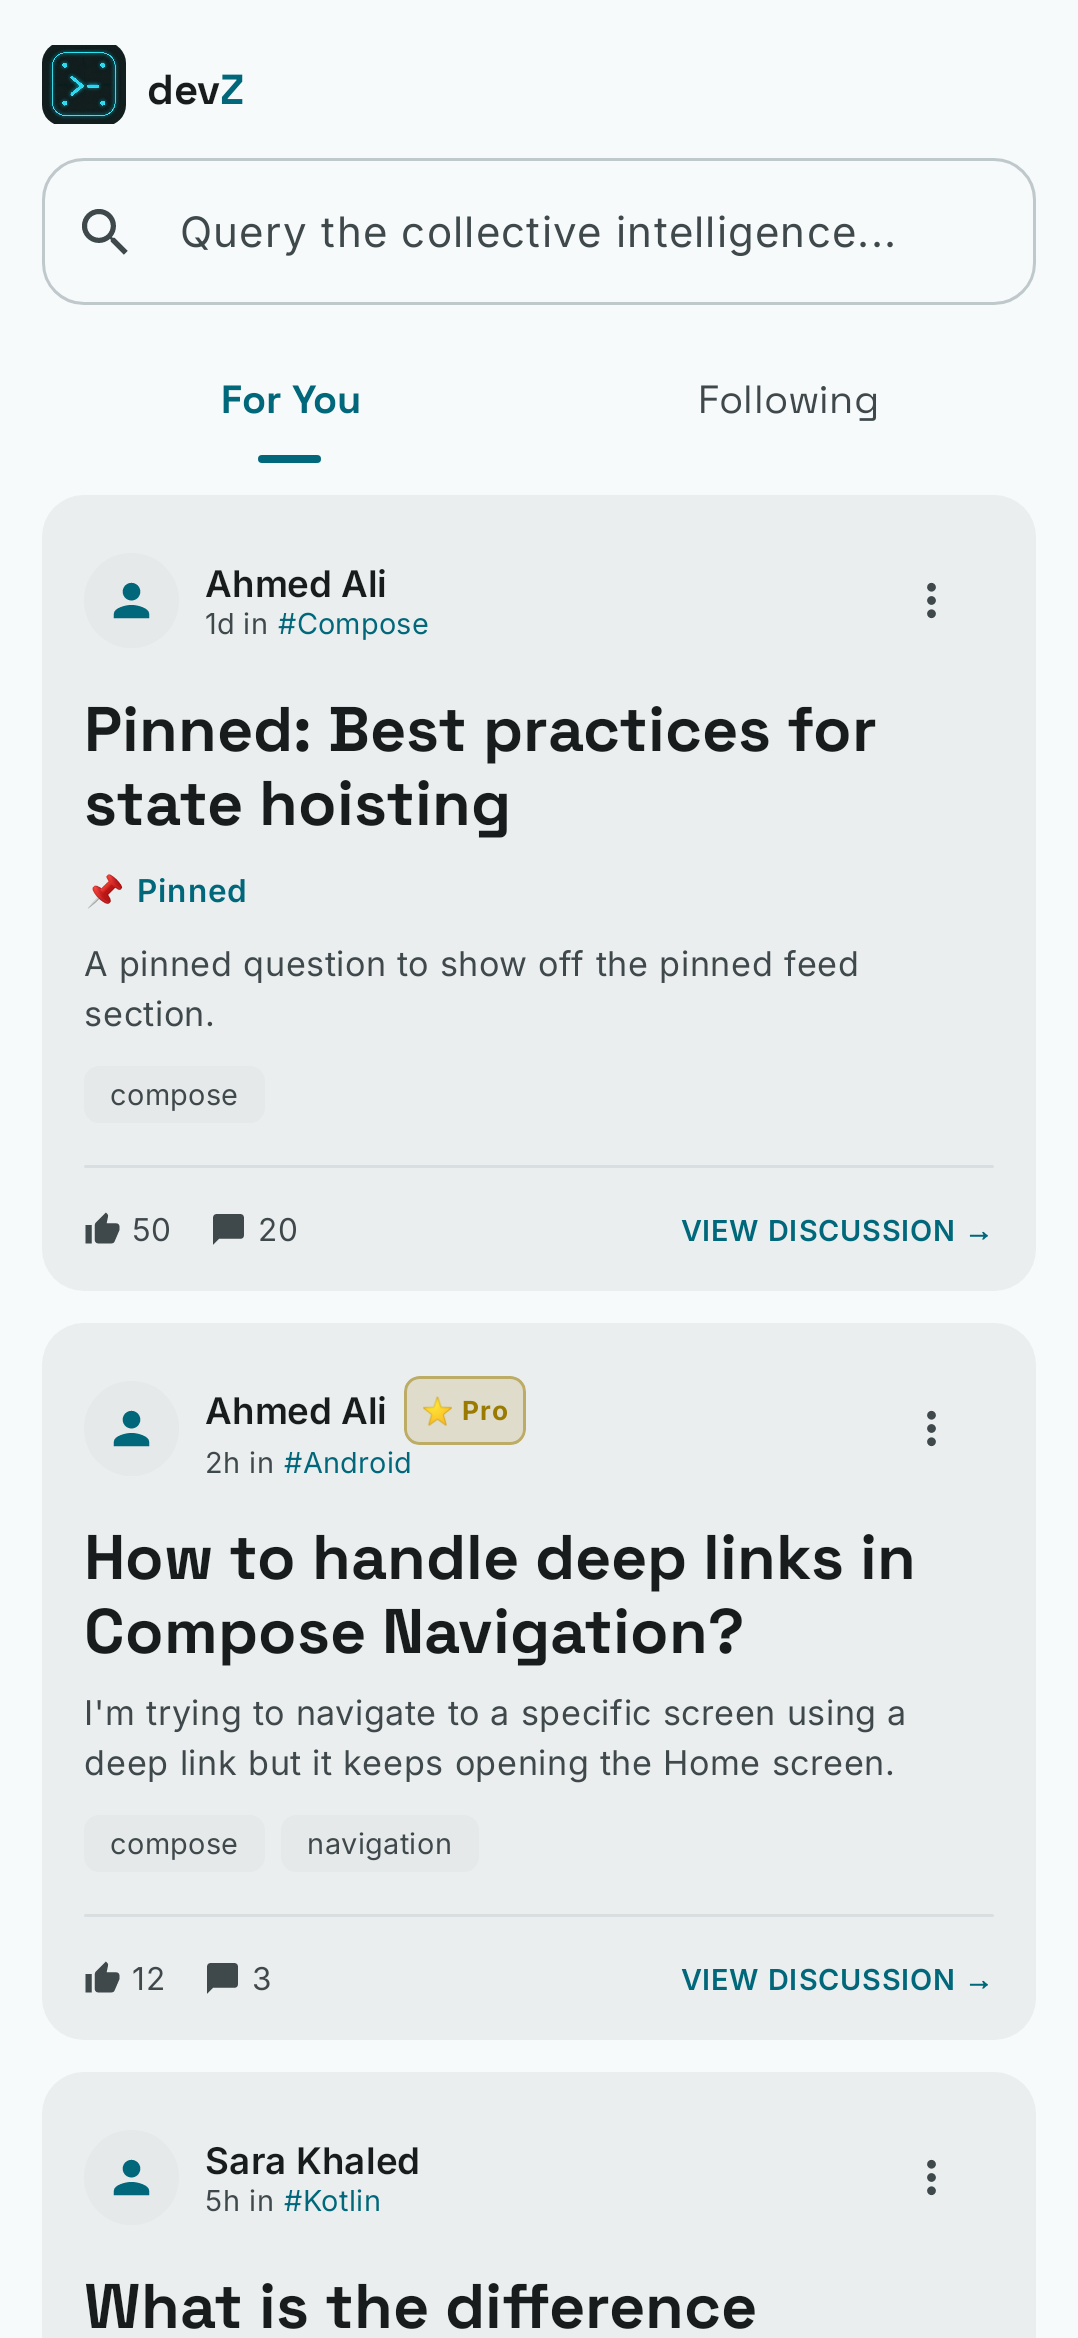
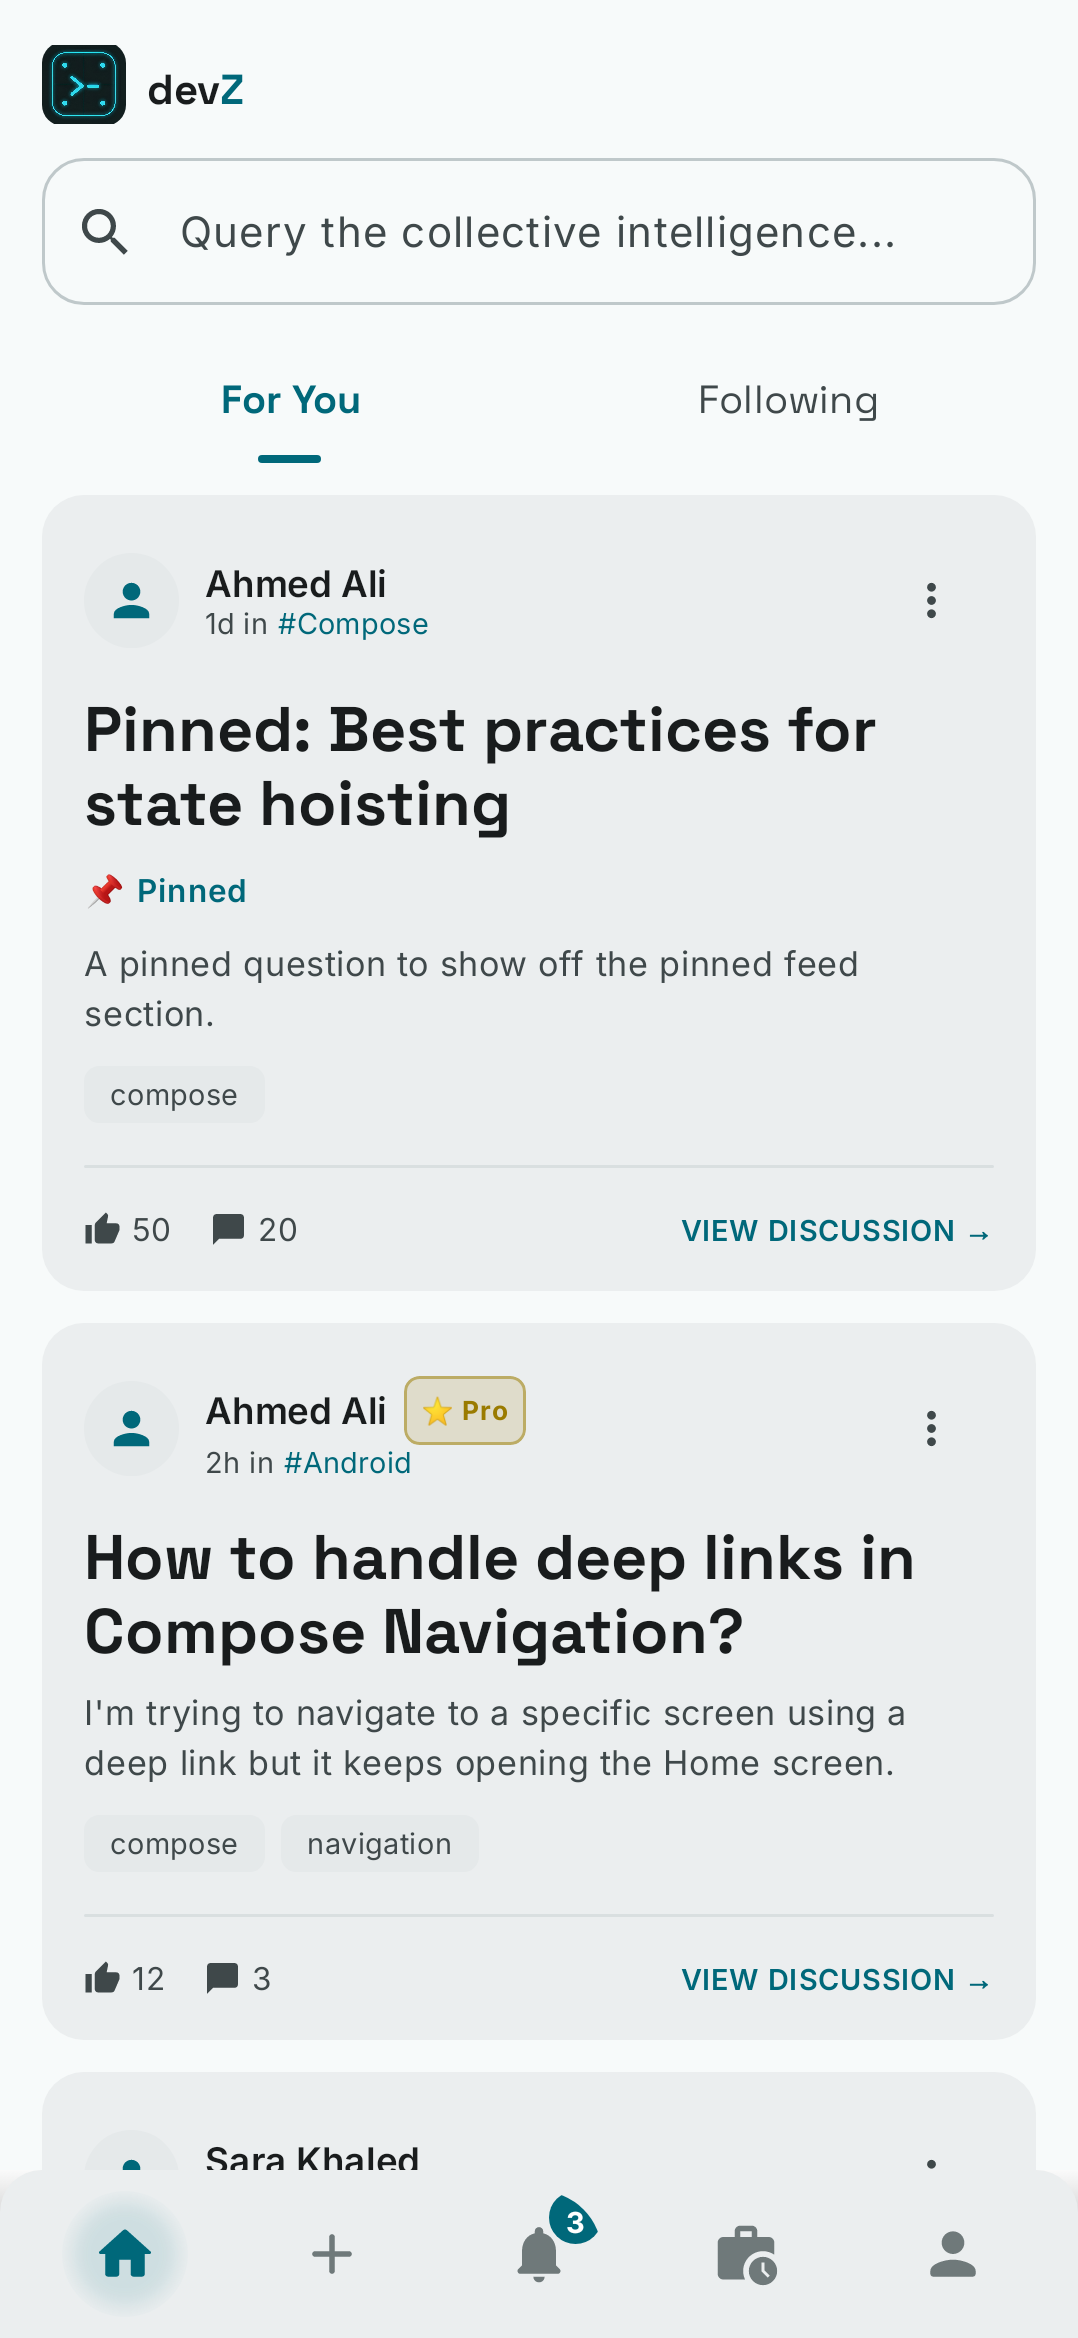
test: include bottom navigation bar in tab screenshots

Changed region(s): [[0.2449, 0.9367, 0.7347, 0.9991], [0.0612, 0.9367, 0.2143, 0.9991], [0.8571, 0.9367, 0.9184, 0.9991]]

diff --git a/app/src/test/java/com/mohamed/devz/gallery/ScreenshotGalleryTest.kt b/app/src/test/java/com/mohamed/devz/gallery/ScreenshotGalleryTest.kt
@@ -5,7 +5,43 @@ import androidx.compose.material3.SnackbarHostState
 import androidx.compose.runtime.Composable
 import androidx.compose.runtime.rememberCoroutineScope
 import androidx.compose.ui.test.junit4.createComposeRule
+import androidx.compose.foundation.background
+import androidx.compose.foundation.layout.Arrangement
+import androidx.compose.foundation.layout.Box
+import androidx.compose.foundation.layout.Row
+import androidx.compose.foundation.layout.fillMaxSize
+import androidx.compose.foundation.layout.fillMaxWidth
+import androidx.compose.foundation.layout.height
+import androidx.compose.foundation.layout.imePadding
+import androidx.compose.foundation.layout.padding
+import androidx.compose.foundation.layout.size
+import androidx.compose.foundation.shape.CircleShape
+import androidx.compose.foundation.shape.RoundedCornerShape
+import androidx.compose.material.icons.Icons
+import androidx.compose.material.icons.rounded.Add
+import androidx.compose.material.icons.rounded.Home
+import androidx.compose.material.icons.rounded.Notifications
+import androidx.compose.material.icons.rounded.Person
+import androidx.compose.material.icons.rounded.WorkHistory
+import androidx.compose.material3.Icon
+import androidx.compose.material3.MaterialTheme
+import androidx.compose.material3.Scaffold
+import androidx.compose.material3.Text
+import androidx.compose.ui.Alignment
+import androidx.compose.ui.Modifier
+import androidx.compose.ui.draw.clip
+import androidx.compose.ui.draw.drawBehind
+import androidx.compose.ui.graphics.Brush
+import androidx.compose.ui.graphics.Color
+import androidx.compose.ui.graphics.Paint
+import androidx.compose.ui.graphics.drawscope.drawIntoCanvas
+import androidx.compose.ui.graphics.nativeCanvas
+import androidx.compose.ui.graphics.toArgb
+import androidx.compose.ui.graphics.vector.ImageVector
 import androidx.compose.ui.test.onRoot
+import androidx.compose.ui.text.font.FontWeight
+import androidx.compose.ui.unit.dp
+import androidx.compose.ui.unit.sp
 import com.github.takahirom.roborazzi.captureRoboImage
 import com.mohamed.devz.feature.admin.presentation.admin_dashboard.AdminDashboardContent
 import com.mohamed.devz.feature.admin.presentation.admin_dashboard.AdminDashboardState
@@ -107,15 +143,131 @@ class ScreenshotGalleryTest {
     @get:Rule
     val compose = createComposeRule()
 
-    private fun capture(name: String, themeMode: ThemeMode, ui: @Composable () -> Unit) {
+    private fun capture(
+        name: String,
+        themeMode: ThemeMode,
+        ui: @Composable () -> Unit,
+        selectedTab: Int? = null,
+    ) {
         compose.mainClock.autoAdvance = false
         compose.setContent {
-            DevzTheme(themeMode = themeMode) { ui() }
+            DevzTheme(themeMode = themeMode) {
+                if (selectedTab == null) {
+                    ui()
+                } else {
+                    Scaffold(
+                        containerColor = Color.Transparent,
+                        bottomBar = { TestBottomBar(selectedIndex = selectedTab) },
+                    ) { innerPadding ->
+                        Box(modifier = Modifier.fillMaxSize().padding(innerPadding)) {
+                            ui()
+                        }
+                    }
+                }
+            }
         }
         compose.mainClock.advanceTimeBy(1_000)
         compose.onRoot().captureRoboImage(
             "../docs/screenshots/$name-content-${themeMode.storageKey}.png",
         )
+    }
+
+    /**
+     * Test-only replica of the app's `HomeContent` bottom navigation bar so tab
+     * screenshots include the shell chrome. Mirrors HomeScreen.kt: it is NOT the
+     * production composable (that one is private and Hilt-bound), just a visual copy.
+     */
+    @Composable
+    private fun TestBottomBar(selectedIndex: Int, unreadCount: Int = 3) {
+        val icons = listOf(
+            Icons.Rounded.Home,
+            Icons.Rounded.Add,
+            Icons.Rounded.Notifications,
+            Icons.Rounded.WorkHistory,
+            Icons.Rounded.Person,
+        )
+        val scrimColor = MaterialTheme.colorScheme.scrim
+        Box(
+            modifier = Modifier
+                .fillMaxWidth()
+                .drawBehind {
+                    drawRect(
+                        brush = Brush.verticalGradient(
+                            colors = listOf(Color.Transparent, scrimColor.copy(alpha = 0.5f)),
+                            startY = 0f,
+                            endY = size.height,
+                        )
+                    )
+                }
+        ) {
+            Row(
+                modifier = Modifier
+                    .fillMaxWidth()
+                    .clip(RoundedCornerShape(topStart = 16.dp, topEnd = 16.dp))
+                    .background(MaterialTheme.colorScheme.surfaceContainer)
+                    .height(64.dp)
+                    .imePadding()
+                    .padding(horizontal = 8.dp),
+                horizontalArrangement = Arrangement.SpaceAround,
+                verticalAlignment = Alignment.CenterVertically,
+            ) {
+                icons.forEachIndexed { index, icon ->
+                    TestNavIcon(
+                        icon = icon,
+                        isSelected = index == selectedIndex,
+                        badgeCount = if (index == 2) unreadCount else 0,
+                    )
+                }
+            }
+        }
+    }
+
+    @Composable
+    private fun TestNavIcon(icon: ImageVector, isSelected: Boolean, badgeCount: Int) {
+        val tint = if (isSelected) MaterialTheme.colorScheme.primary else MaterialTheme.colorScheme.outline
+        val glowColor = MaterialTheme.colorScheme.primary.copy(alpha = 0.12f).toArgb()
+        Box(
+            contentAlignment = Alignment.Center,
+            modifier = Modifier
+                .size(48.dp)
+                .clip(RoundedCornerShape(50))
+                .drawBehind {
+                    if (isSelected) {
+                        drawIntoCanvas { canvas ->
+                            val paint = Paint().asFrameworkPaint().apply {
+                                isAntiAlias = true
+                                color = android.graphics.Color.TRANSPARENT
+                                setShadowLayer(16f, 0f, 0f, glowColor)
+                            }
+                            canvas.nativeCanvas.drawCircle(center.x, center.y, 20.dp.toPx(), paint)
+                        }
+                    }
+                }
+        ) {
+            Icon(
+                imageVector = icon,
+                contentDescription = null,
+                tint = tint,
+                modifier = Modifier.size(26.dp),
+            )
+            if (badgeCount > 0) {
+                Box(
+                    modifier = Modifier
+                        .align(Alignment.TopEnd)
+                        .size(20.dp)
+                        .clip(CircleShape)
+                        .background(MaterialTheme.colorScheme.primary),
+                    contentAlignment = Alignment.Center,
+                ) {
+                    Text(
+                        text = if (badgeCount > 9) "9+" else badgeCount.toString(),
+                        color = MaterialTheme.colorScheme.onPrimary,
+                        fontSize = 11.sp,
+                        fontWeight = FontWeight.Bold,
+                    )
+                }
+            }
+        }
     }
 
     // ── Authentication ──────────────────────────────────────────────────────
@@ -139,8 +291,8 @@ class ScreenshotGalleryTest {
 
     // ── Feed ─────────────────────────────────────────────────────────────────
 
-    @Test fun feedDark() = capture("feed", ThemeMode.DARK, feedUi)
-    @Test fun feedLight() = capture("feed", ThemeMode.LIGHT, feedUi)
+    @Test fun feedDark() = capture("feed", ThemeMode.DARK, feedUi, selectedTab = 0)
+    @Test fun feedLight() = capture("feed", ThemeMode.LIGHT, feedUi, selectedTab = 0)
 
     // ── Question detail / editor ─────────────────────────────────────────────
 
@@ -152,8 +304,8 @@ class ScreenshotGalleryTest {
 
     // ── Profile ──────────────────────────────────────────────────────────────
 
-    @Test fun profileDark() = capture("profile", ThemeMode.DARK, profileUi)
-    @Test fun profileLight() = capture("profile", ThemeMode.LIGHT, profileUi)
+    @Test fun profileDark() = capture("profile", ThemeMode.DARK, profileUi, selectedTab = 4)
+    @Test fun profileLight() = capture("profile", ThemeMode.LIGHT, profileUi, selectedTab = 4)
 
     @Test fun editProfileDark() = capture("edit-profile", ThemeMode.DARK, editProfileUi)
     @Test fun editProfileLight() = capture("edit-profile", ThemeMode.LIGHT, editProfileUi)
@@ -163,8 +315,8 @@ class ScreenshotGalleryTest {
 
     // ── Notifications ────────────────────────────────────────────────────────
 
-    @Test fun notificationsDark() = capture("notifications", ThemeMode.DARK, notificationsUi)
-    @Test fun notificationsLight() = capture("notifications", ThemeMode.LIGHT, notificationsUi)
+    @Test fun notificationsDark() = capture("notifications", ThemeMode.DARK, notificationsUi, selectedTab = 2)
+    @Test fun notificationsLight() = capture("notifications", ThemeMode.LIGHT, notificationsUi, selectedTab = 2)
 
     // ── Jobs ─────────────────────────────────────────────────────────────────
 

diff --git a/docs/screenshots/README.md b/docs/screenshots/README.md
@@ -24,12 +24,22 @@ screen per theme), which guarantees the light frame is genuinely recomposed.
 All screens use the same fixtures as the `@Preview` functions in the screen
 source files.
 
+### The bottom navigation bar
+
+The three in-app tab screens (Feed, View profile, Notifications) are captured
+with the home shell's **bottom navigation bar** drawn underneath them. The
+production bar lives inside the Hilt-bound `HomeContent`, so the test uses a
+small visual replica (same icons, colors, height and selected-tab state) rather
+than importing it.
+
 ### Screens that are not captured
 
-- **Home shell** — `HomeContent` embeds Hilt-backed screens
+- **Home shell (as a whole)** — `HomeContent` embeds Hilt-backed screens
   (`ViewQuestionsScreen`, `NotificationsScreen`, `JobsScreen`,
   `ProfileScreen`) and cannot be rendered in a plain Robolectric test. Its
-  constituent screens are captured individually instead.
+  constituent screens are captured individually instead (with the bar).
+- **Jobs list** — `JobsScreen` has no stateless content split, so the jobs
+  browse tab itself is not captured; only Job detail and Post job are.
 
 ## Regenerating
 
@@ -51,13 +61,13 @@ downloads the Android 14 (`android-all-instrumented`) runtime jar into
 | Banned | suspended account | [dark](banned-content-dark.png) | [light](banned-content-light.png) |
 | Splash | animated splash | [dark](splash-content-dark.png) | [light](splash-content-light.png) |
 | Onboarding | pager, page 1 | [dark](onboarding-content-dark.png) | [light](onboarding-content-light.png) |
-| Feed | For You + pinned | [dark](feed-content-dark.png) | [light](feed-content-light.png) |
+| Feed | For You + pinned, with bottom nav | [dark](feed-content-dark.png) | [light](feed-content-light.png) |
 | Question details | Q + accepted answer | [dark](question-details-content-dark.png) | [light](question-details-content-light.png) |
 | Add / edit question | create | [dark](add-edit-question-content-dark.png) | [light](add-edit-question-content-light.png) |
-| View profile | own profile | [dark](profile-content-dark.png) | [light](profile-content-light.png) |
+| View profile | own profile, with bottom nav | [dark](profile-content-dark.png) | [light](profile-content-light.png) |
 | Edit profile | filled | [dark](edit-profile-content-dark.png) | [light](edit-profile-content-light.png) |
 | Settings | theme + language | [dark](settings-content-dark.png) | [light](settings-content-light.png) |
-| Notifications | mixed read/unread | [dark](notifications-content-dark.png) | [light](notifications-content-light.png) |
+| Notifications | mixed read/unread, with bottom nav | [dark](notifications-content-dark.png) | [light](notifications-content-light.png) |
 | Job detail | approved job | [dark](job-detail-content-dark.png) | [light](job-detail-content-light.png) |
 | Post job | filled form | [dark](post-job-content-dark.png) | [light](post-job-content-light.png) |
 | Pending approval | company interstitial | [dark](pending-approval-content-dark.png) | [light](pending-approval-content-light.png) |
